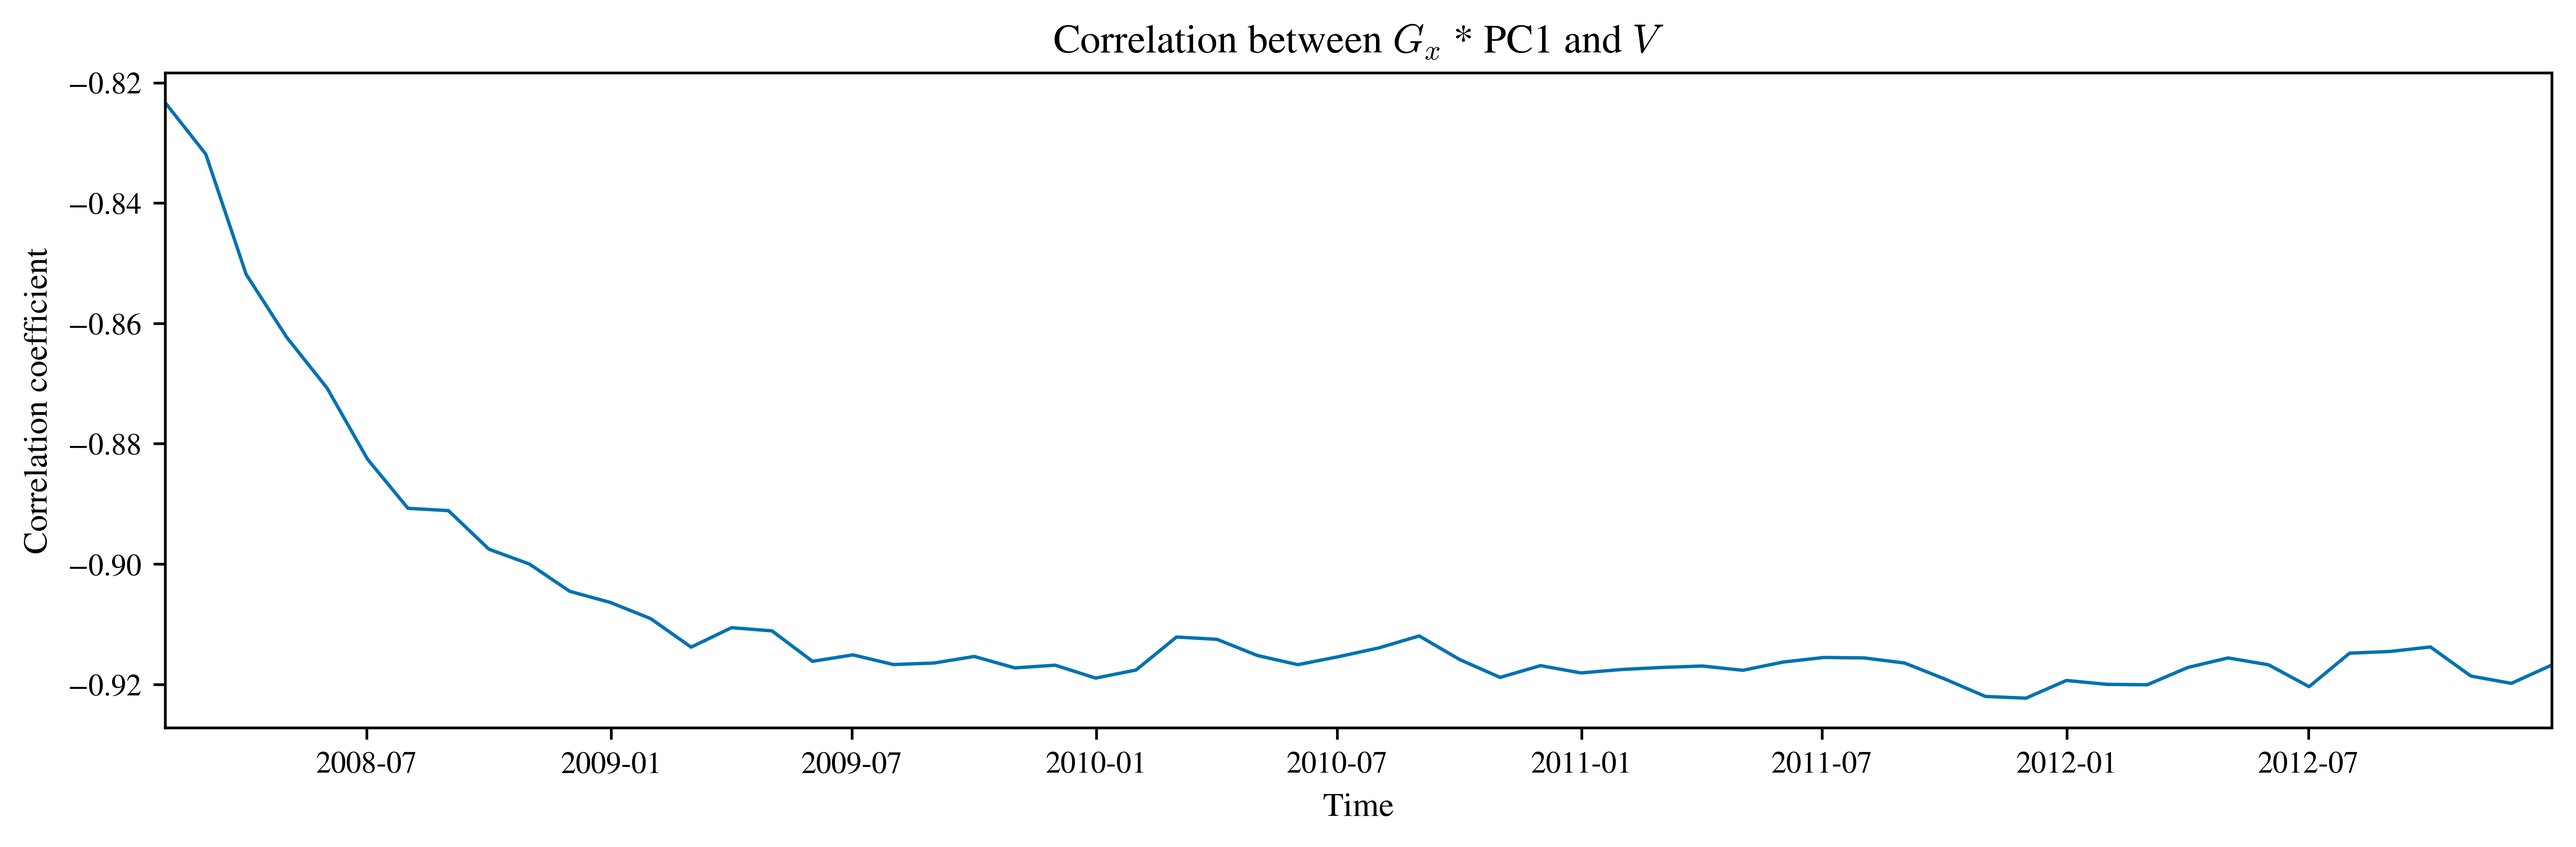
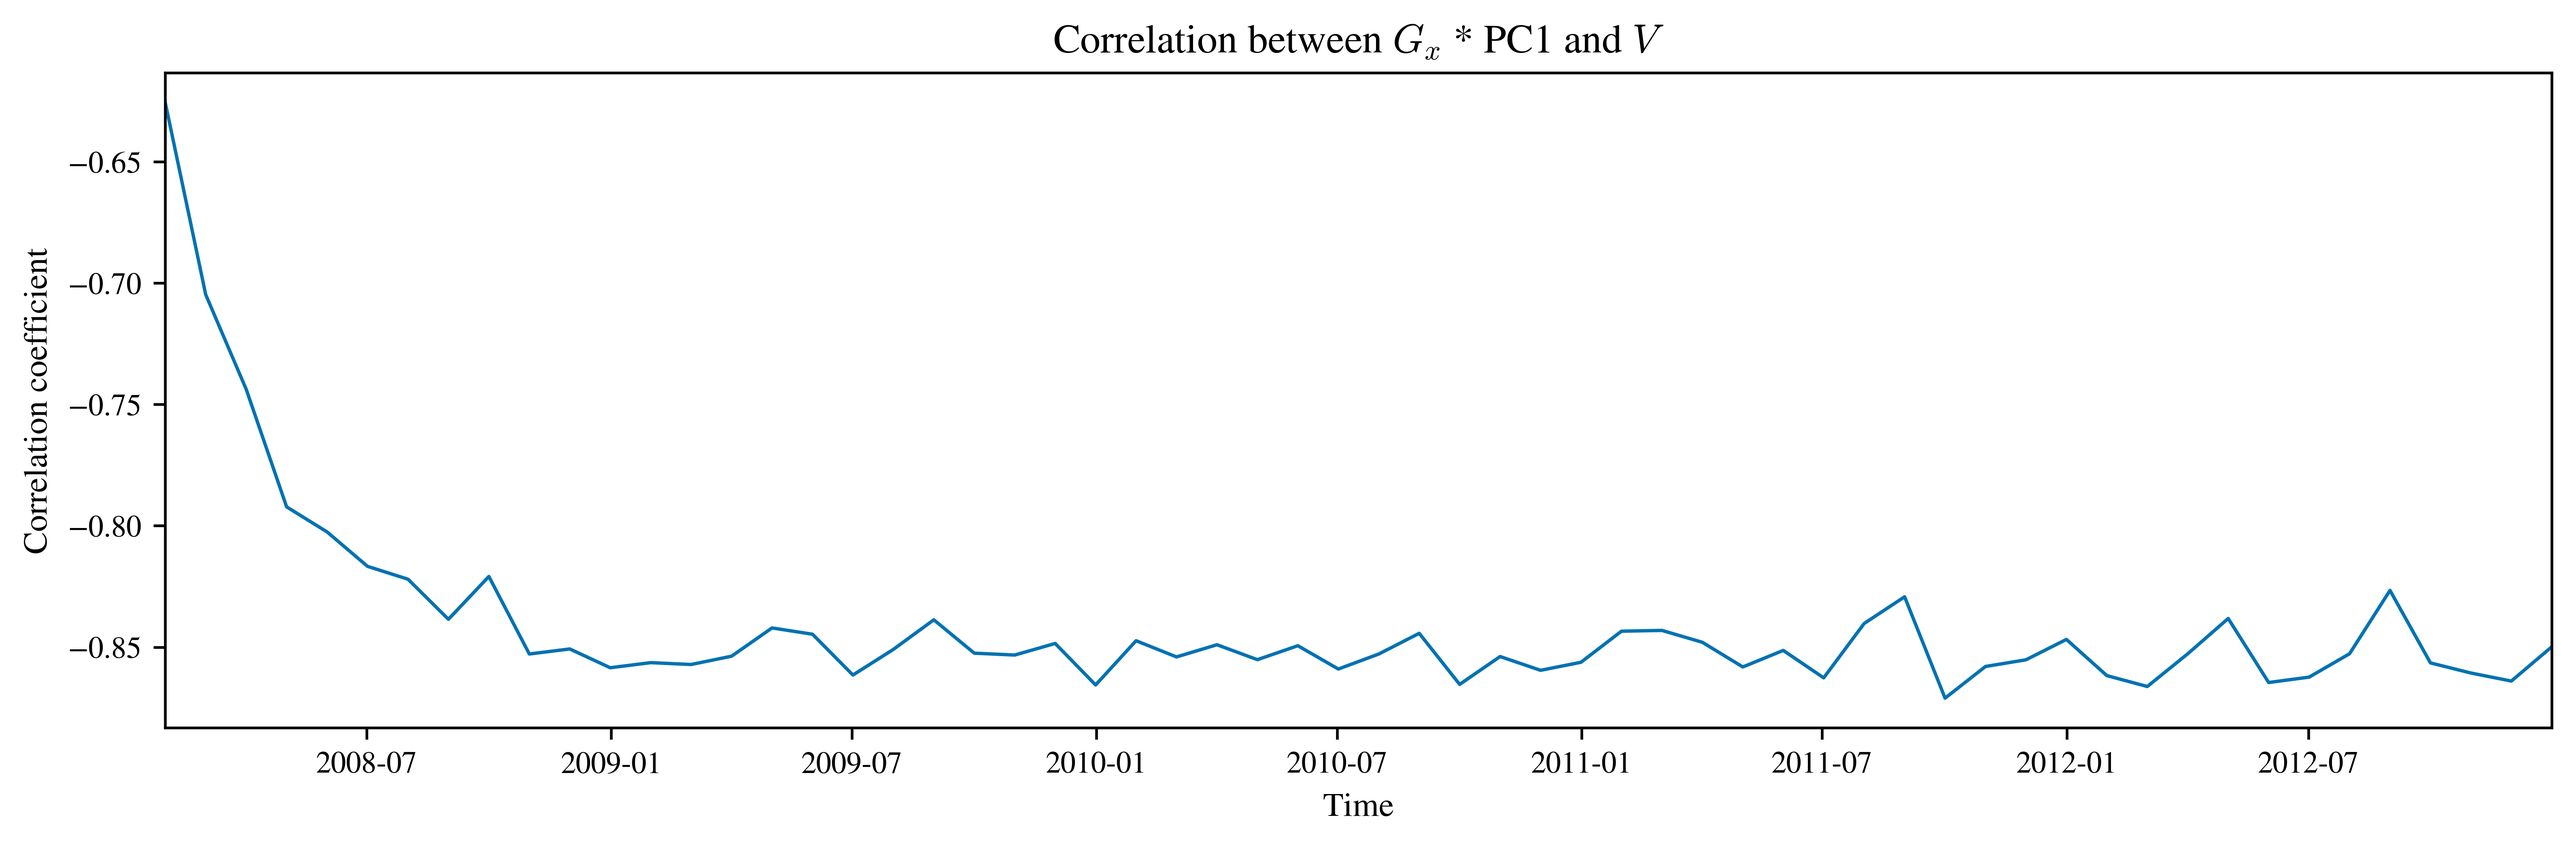
ext: improving figure 4 legend and changing velocities to surface velocities

diff --git a/src/constants.py b/src/constants.py
@@ -18,7 +18,7 @@ FIGURE_PATH = os.path.join(PROJECT_PATH, "figures")
 KO_PATH = os.path.join(SRC_PATH, "data", "kim_(&orsi)_altimetric_fronts")
 
 # Data directory on GWS
-GWS_DATA_DIR = pathlib.Path("/gws/nopw/j04/ai4er/users/sdat2")
+GWS_DATA_DIR = pathlib.Path("/gws/nopw/j04/ai4er/users/sdat2/OLD")
 
 
 # start ****DATA LOCATION section***
@@ -53,38 +53,38 @@ UVEL_FILE: str = os.path.join(BSOSE_PATH, "bsose_i106_2008to2012_monthly_Uvel.nc
 
 # COORDS within BSOSE-i106
 Z_COORD: str = "Z"
-D_COORD: str = "Depth"
+D_COORD: str = "Depth" # this is actually a variable, not the same as the others
 Y_COORD: str = "YC"
 X_COORD: str = "XC"
 T_COORD: str = "time"
 
 # COORDS created in my variables
-P_COORD: str = "pair"
-CLUST_COORD: str = "cluster"
+P_COORD: str = "pair" # the name for the paired i metric dimension/coordinate
+CLUST_COORD: str = "cluster" # the name for the cluster coordinate/ dimension
 
 # Particular names within BSOSE-i106
 DEPTH_NAME: str = D_COORD
-USELESS_LIST: list = ["iter", "Depth", "rA", "drF", "hFacC"]
-VAR_NAME_LIST: list = ["SALT", "THETA"]
-FEATURES_D: dict = {"THETA": "THETA", "SALT": "SALT"}
+USELESS_LIST: list = ["iter", "Depth", "rA", "drF", "hFacC"] # list of variables from BSOSE to discard before processing
+VAR_NAME_LIST: list = ["SALT", "THETA"] # variables used in to fit the pcm model on
+FEATURES_D: dict = {"THETA": "THETA", "SALT": "SALT"} # Mapping for within pyxpcm
 
 # Naming of intermediate files
 INTERP_FILE_NAME: str = os.path.join(DATA_PATH, "interp.nc")
 REMAKE: bool = False  # whether or not to prefer remaking the interp
 
 # Chosen hyperparameters in the model run:
-RUN_NAME: str = "010"
-SEED: int = int(RUN_NAME)
+RUN_NAME: str = "010"  # the seed as a string
+SEED: int = int(RUN_NAME) # the seed as an int
 np.random.seed(SEED)  # feed the run name to np random seed - synchronises all
 
 # random variables used locally to make it reproducible.
-MIN_DEPTH: float = 300  # m
-MAX_DEPTH: float = 2000  # m
+MIN_DEPTH: float = 300  # the depth of the minimum cut off (m)
+MAX_DEPTH: float = 2000  # the depth of the maximum cut off (m)
 K_LIST: list = [5, 4, 2, 10]  # K's to make when running batch script.
-K_CLUSTERS: int = 5  # number of clusters for example
-D_PCS: int = 3  # number of principal components
+K_CLUSTERS: int = 5  # number of clusters for the main example figure.
+D_PCS: int = 3  # number of principal components to be used.
 EXAMPLE_TIME_INDEX: int = 40  # the default time to go for.
-EXAMPLE_Z_INDEX: int = 15  # 15 indexes down.
+EXAMPLE_Z_INDEX: int = 0  # Surface layer.
 ALL_NAME: str = "all"  # starting combination script.
 
 # plotting specifications
